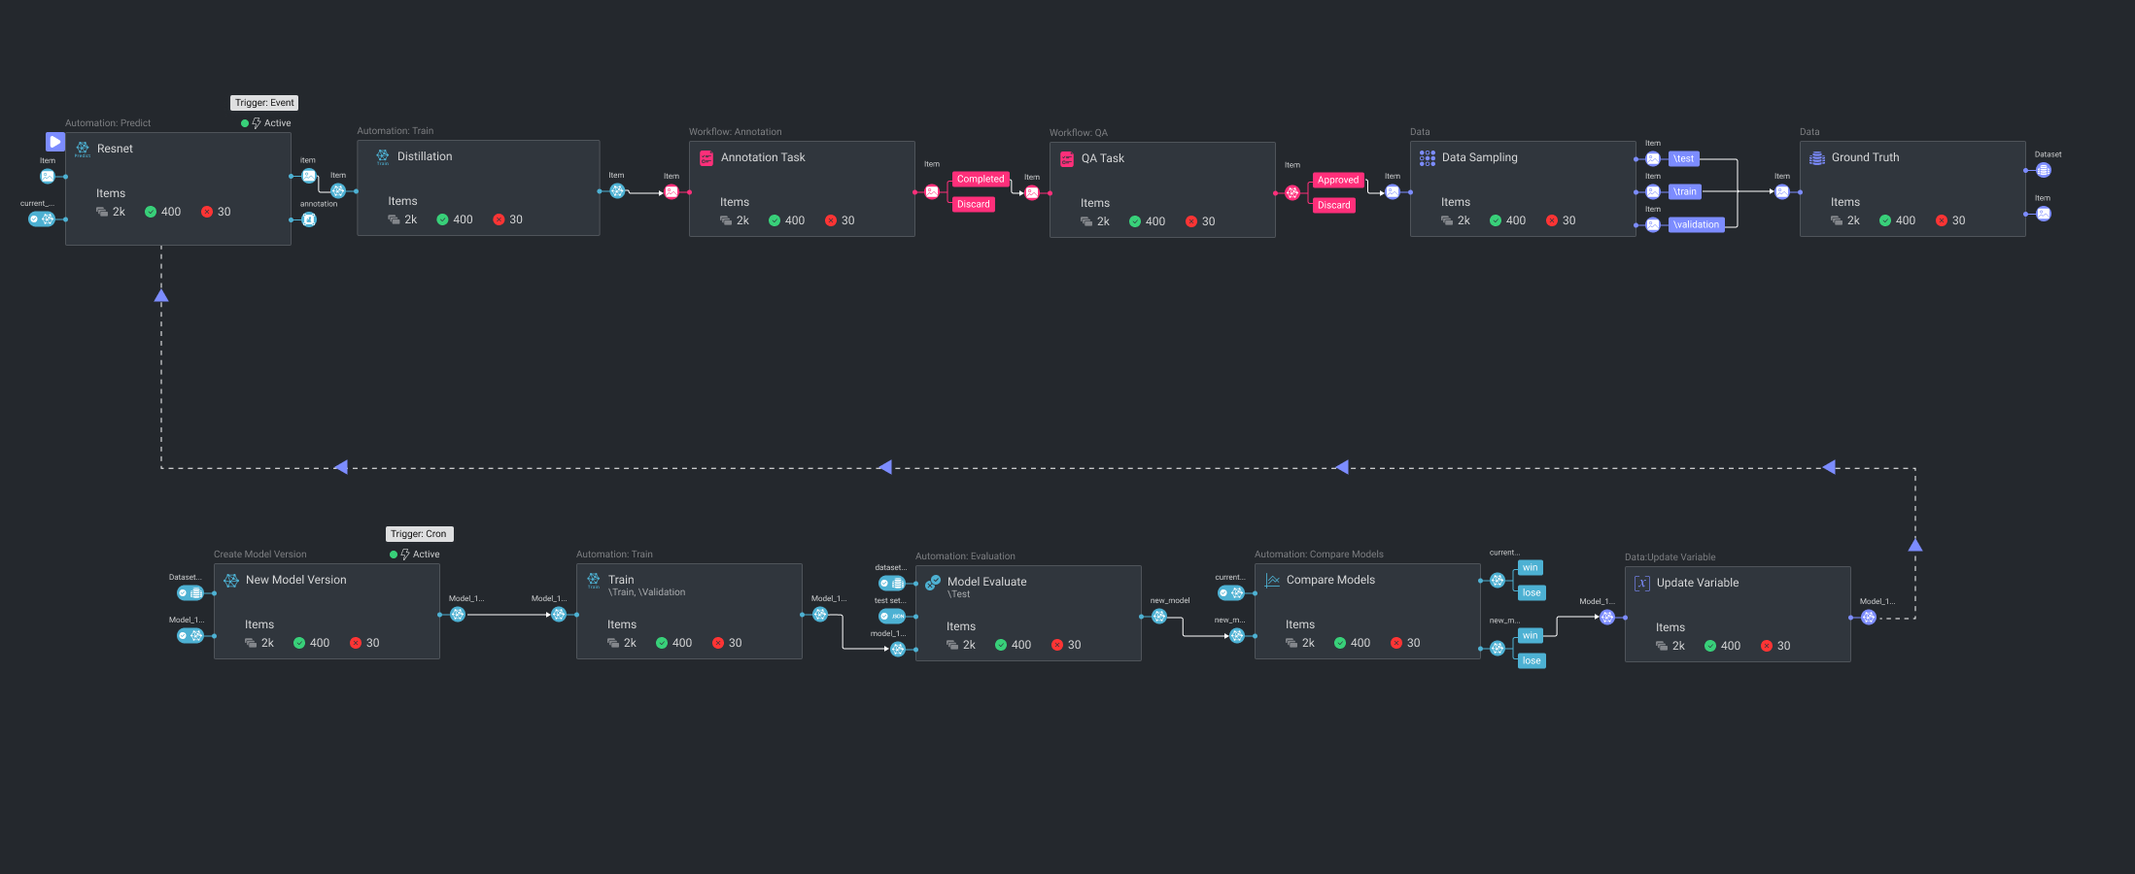
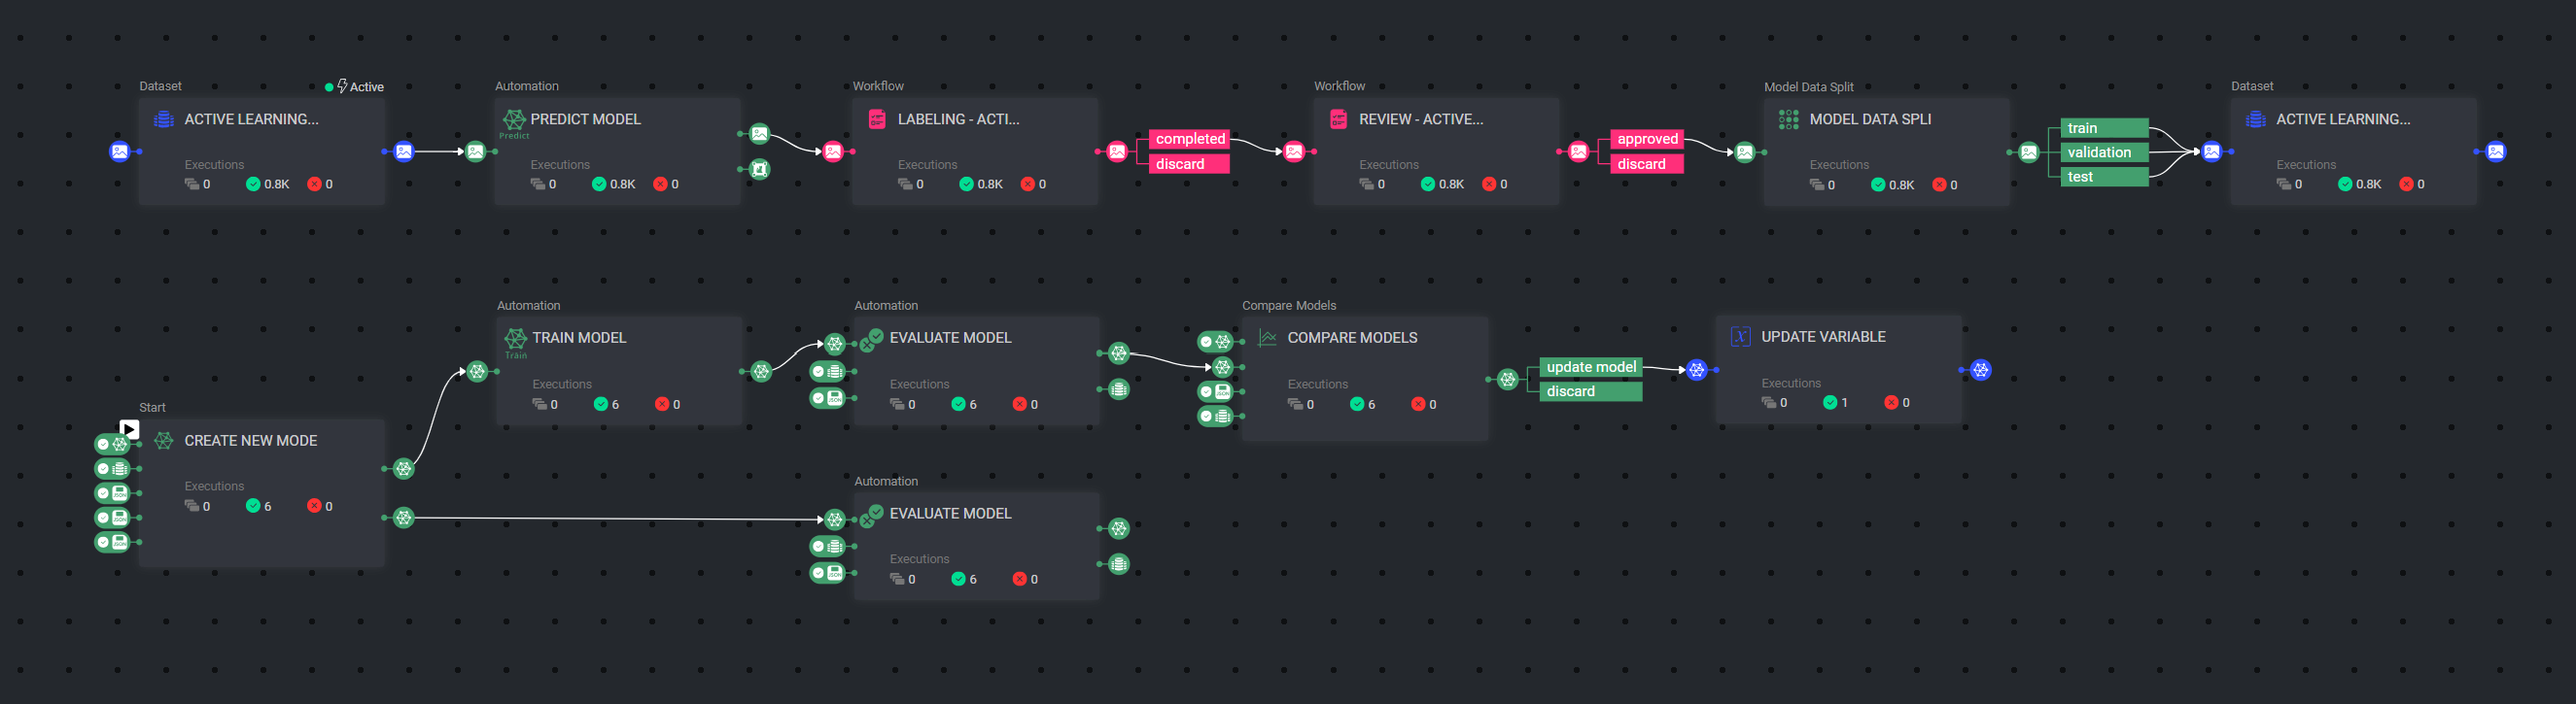
updating docs and readme

diff --git a/modules/model_compare.py b/modules/model_compare.py
@@ -96,20 +96,21 @@ def compare_models(previous_model: dl.Model,
 
 def get_eval_df(previous_model: dl.Model,
                 new_model: dl.Model,
-                compare_config: dict,
-                dataset: dl.Dataset = None):
+                dataset: dl.Dataset,
+                compare_config: dict
+               ):
     """
-
-    :param previous_model:
-    :param new_model:
-    :param compare_config:
-    :param dataset:
+    Get evaluation dataframe for each model based on the metrics specified in the compare_config.
+    :param previous_model: previous model
+    :param new_model: new model to compare against the original model
+    :param dataset: dataset that has the test subset the models are being evaluated on.
+    :param compare_config: JSON indicating which metrics are being compared, if empty compare annotation scores
     :return:
     """
     checks = compare_config.get('checks', dict())
     for metric_name, metric_config in checks.items():
         if metric_name == 'precision_recall':
-            iou_threshold = metric_config.get('iou_threshold', 0.01)
+            iou_threshold = metric_config.get('iou_threshold', 0)
             current_eval_df = precision_recall.calc_precision_recall(dataset_id=dataset.id,
                                                                      model_id=previous_model.id,
                                                                      iou_threshold=iou_threshold,
@@ -258,40 +259,27 @@ def _compare(configuration: dict) -> bool:
     :Keyword Arguments:
 
     ******* SPECIFIC METRIC *******
-
-    * *precision* (``bool``) --
-      compare models by *only* Precision metric [default: False]
-    * *recall* (``bool``) --
-      compare models by *only* Recall metric [default: False]
-    * *f1* (``bool``) --
-      compare models by *only* f1-measure metric [default: False]
-    * *mAP50* (``bool``) --
-      compare models by *only* mAP50 metric [default: False]
-    * *mAP50_95* (``bool``) --
-      compare models by *only* mAP50_95 metric [default: False]
-    note: if any metric was not chosen, the calculation takes *everything*
+    * *precision-recall* (``dict``) --
+      compare models by Precision-Recall metrics using AUC-PR
 
     ******* SETTINGS *******
-
-    * *soft_check* (``function``) --
-      require custom comparison function between two columns [default: Python's builtin *any*]
-    * *iou_threshold* (``list | float``) --
-      perform comparison based on specific (single/boundaries) IoU value [default: everything]
-    * *same_pre_model* (``bool``) --
-      require that both models were trained from the same source [default: false]
+    * *iou_threshold* (``float``) --
+      perform comparison based on specific (single/boundaries) IoU value [default: 0]
     * *specific_label* (``list``) --
       perform comparison based on specific label [default: everything]
     * *min_delta* (``float``) --
       require minimum difference between the metrics before considering it as improvement [default: 0]
-    * *lower_is_better_metrics* (``list``) --
-      specify list of metrics which require *decrease* to represent improvement [default: 0]
-    * *verbose* (``bool``) --
-      stdout tabular information in runtime  [default: False]
 
     :return: True if the comparison detected any improvement OR equalization, else - False.
     """
 
     def __compare(_current: pd.DataFrame, _new: pd.DataFrame):
+        """
+        Compare two models by Precision-Recall metrics using AUC-PR.
+        :param _current: current model metrics dataframe
+        :param _new: new model metrics dataframe
+        :return:
+        """
         # Sort the precision and recall values together.
         current_precision_np = np.asarray(_current['precision'])
         current_recall_np = np.asarray(_current['recall'])
@@ -314,13 +302,14 @@ def _compare(configuration: dict) -> bool:
         new_auc_pr = auc(new_sorted_precision_recall[:, 1], new_sorted_precision_recall[:, 0])
         logger.info(f"new model auc pr: {new_auc_pr}")
 
-        return new_auc_pr > current_auc_pr
+        difference_auc_pr = new_auc_pr - current_auc_pr
+        return difference_auc_pr > min_delta
 
     def _filter(_current_metric: pd.DataFrame, _new_metric: pd.DataFrame, **kwargs):
         """
         concatenate filtering over the dataFrames before performing metrics comparison
-        :param _previous_metric: previous metric table
         :param _current_metric: current metric table
+        :param _new_metric: new metric table
         :param kwargs: filter options
         :return: filtered tables
         """
@@ -347,6 +336,6 @@ def _compare(configuration: dict) -> bool:
         current_metric, new_metric = _filter(current_sheet,
                                              new_sheet,
                                              **metric_config)
-
+        min_delta = metric_config.get("min_delta", 0)
         result = __compare(current_metric, new_metric)
     return result

diff --git a/README.md b/README.md
@@ -28,17 +28,16 @@ helps improve learning process efficiency to achieve high accuracy with fewer la
    In python, use the following commands:
 
    ```python
-   dpk = dl.dpks.get(dpk_name='active-learning-1.3')
-   project.apps.install(dpk=dpk)
+    import dtlpy as dl
+    project = dl.projects.get(project_name='<project-name>')
+    dpk = dl.dpks.get(dpk_name='<dpk-name>')
+    project.apps.install(dpk=dpk.display_name)
    ```
 
 3. Go to “Pipelines” and “Create new pipeline”
-
 4. Select the “Active Learning” template
 5. Fill in the required inputs and outputs in each node
 6. Start pipeline
-
-To customize your pipeline, select the nodes from the
 
 ---
 
@@ -50,108 +49,87 @@ learning pipelines in production.
 
 Custom nodes installed include:
 
-- data splitting
-- create new models (for fine-tuning)
+- model data split
+- create new models
 - compare two models
 
 Each node is explained in detail below.
 
-
 ---
 
-## Data Split Node
+## Model Data Split Node
 
 <img src="assets/data_split.png">
 
-### Description
+The **Model Data Split** node is a data processing tool that empowers you to split your data into subsets at runtime. Use this node to segment your ground truth into train, validation and test sets, simplifying the process.
 
-The **Data Split** node allows users to split data into groups, split equally or by percentage. This node takes a stream
-of data and automatically assigns them to a data group based on user-defined groups and distribution. For example, if
-you wanted a 80-20 split for model training, you would create two groups with the names and distributions of “train”
+Simply specify the desired subsets distribution, and the Data Split node will seamlessly assign each item to its respective subset using a metadata tags.
 
-### App Usage in the Dataloop Platform
+#### App Usage in the Dataloop Platform
 
 To use the Data Split node in Pipelines, use the following steps:
 
 * Navigate to the Pipeline editor .
-* Drag and drop the Data Split node to the canvas.
-* Name each group and define the distribution (equal or custom).
+* Drag and drop the Model Data Split node to the canvas.
+* Define the distribution desired for each subset (equal or custom).
 * Connect the node to the next node.
-* Run the pipeline.
 
 ---
 
 ## Create New Model Node
 
-The **Create New Model** node takes an existing model and clones it with a defined dataset, training and validation
-subset, and model configurations. This node outputs a model that is prepared for training.
-The name of the new model entity is taken from the text box in the pipelines panel. If a model already exists with the
-same name, a number will be automatically added as a suffix.
+The **Create New Model** node generates a new model version by cloning an existing model, making it ready for fine-tuning.
 
-**Parameters**
+The node inputs can be provided using parameters (fixed values or dynamic variables) or through node connections.
+
+Upon execution, the node will generate the new model as output. For more information, see our Active Learning documentation.
+
+
+#### Parameters
 
 - `base_model` - the model to clone (dl.Model)
 - `dataset` - the dataset to train on (dl.Dataset)
-- `train_subset` - the DQL query for the subset of training items (JSON)
-- `validation_subset` - the DQL query for the subset of validation items (JSON)
-- `model_configuration` - the model configurations to use for training (JSON)
+- `train_subset` - the DQL query for the subset of training items ([JSON](pipeline_configs/train_subset_filter.json))
+- `validation_subset` - the DQL query for the subset of validation items ([JSON](pipeline_configs/validation_subset_filter.json))
+- `model_configuration` - the model configurations to use for training (JSON: Model Configuration from Model Management)
 
-**Outputs/returns**
+#### Outputs/returns
 
-- `new_model` - the new model entity created (dl.Model)
+- `new_model` - the new model entity created `dl.Model`
+- `base_model` - the base model entity used to clone existing model `dl.Model`
 
 ---
 
-## Compare Model Node
+## Compare Models Node
 
-The **Compare Models** node compares two models: a previously trained model, and the newly trained model. 
-Comparisons are highly customizable and can also be done via the Dataloop SDK model adapters.
+The **Compare Models** node undertakes a comparison between two trained model versions based on their evaluation (same test set) or the model metrics created during the train process.
 
-The default Dataloop compare model node can compare any two models that have either:
+The New model input undergoes testing, and if it proves superior, it will be sent as an output labelled 'Update model', signifying deployment readiness. Alternatively, it will be labelled 'Discard'. For more information, see our Active Learning documentation
 
-1) uploaded metrics to model management during model training, or
-2) been evaluated on a common test subset.
+#### Parameters
 
-To do the comparison, a `compare_config` JSON must be provided. The following keys are supported (with the indicated
-defaults):
+- `previous_model` - the previously trained model `dl.Model`
+- `new_model` - the newly trained model to compare with the previous `dl.Model`
+- `compare_config` - the configurations for the comparison ([JSON](pipeline_configs/compare_configurations.json))
+- `dataset` - the dataset the models were evaluated on `dl.Dataset`
 
-- `"wins"` - the metric to compare (string or float), i.e. `"any"`, `"all"`, or `"0.7"` to indicate 70% of the
-  individual sub-comparisons need to result in a win in order for the overall comparison to be a win
-- `"checks"` - a list of sub-comparisons to perform (list of dictionaries)
-- `"verbose"` - whether to print the results of each sub-comparison (boolean), i.e. `true` or `false`
+#### Compare configs:
 
-`"checks"` is where the user can list the specific metrics to be compared. The format of each check will depend on the
-metric type.
+The compare configurations a dictionary with 2 sub-dicts:
 
+- checks: includes sub-dicts the metrics that the models will be compared by, currently only `precision-recall` is supported.
+          need to define `iou_threshold` and `min_delta` for the metric comparison.
+- `"wins"` : the metric to compare (string or float), i.e. `"any"`, `"all"`, or `"0.7"` to indicate 70% of the
+  individual sub-comparisons need to result in a win in order for the overall comparison to be a win.
+  `wins` is used when comparing annotation scored.
 
-If comparing model training metrics as described in **1)** above, the following subkeys are supported:
-
-- `"type"` : the type of metric to compare (string), e.g. `"plot"`
-- `"legend"` : the type of metric, e.g. `"loss"`
-- `"figure"` : the title of the figure to compare, e.g. `"training loss"`
-- `"x-index"` : the x-axis index of the metric to compare, e.g. `-1` for the final epoch, if `x` is epoch
-- `"maximize"` : whether to maximize the metric (boolean), e.g. `false` for loss
-- `"min_delta"` : the minimum delta to consider a comparison win (float), e.g. `0.1`
+if no checks are provided, the comparison will be done by the model evaluation metrics, based on the annotation scores,
+based on the win configurations.
 
 
-If comparing model predictions as described in **2)** above, the following subkeys are supported:
+#### Outputs/returns
 
-- `"wins"` - the metric to compare (string or float), i.e. `"any"`, `"all"`, or `"0.7"` to indicate 70% of the
-  individual sub-comparisons need to result in a win in order for the overall comparison to be a win
-
-
-**Parameters**
-
-- `previous_model` - the previously trained model (dl.Model)
-- `new_model` - the newly trained model to compare with the previous (dl.Model)
-- `compare_config` - the configurations for the comparison (JSON)
-
-
-**Outputs/returns**
-
-- `winning_model` - the model that wins the comparison, with two "action" fields: `update_model` and `discard` (
-  dl.Model)
-
+- `winning_model` - `dl.Model` - the model that wins the comparison, with two "action" fields: `update_model` and `discard`
 ---
 
 ## Contributions, Bugs and Issues - How to Contribute
